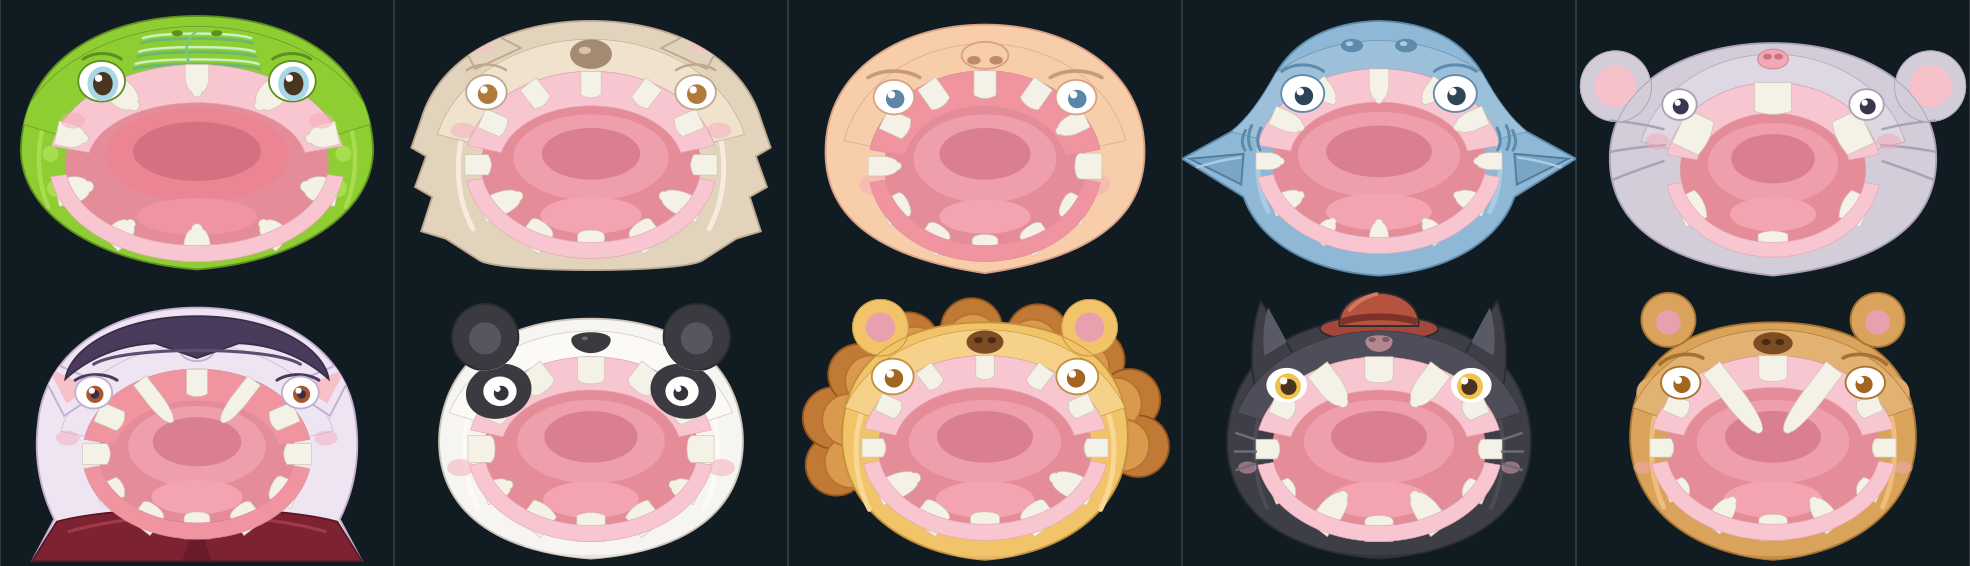
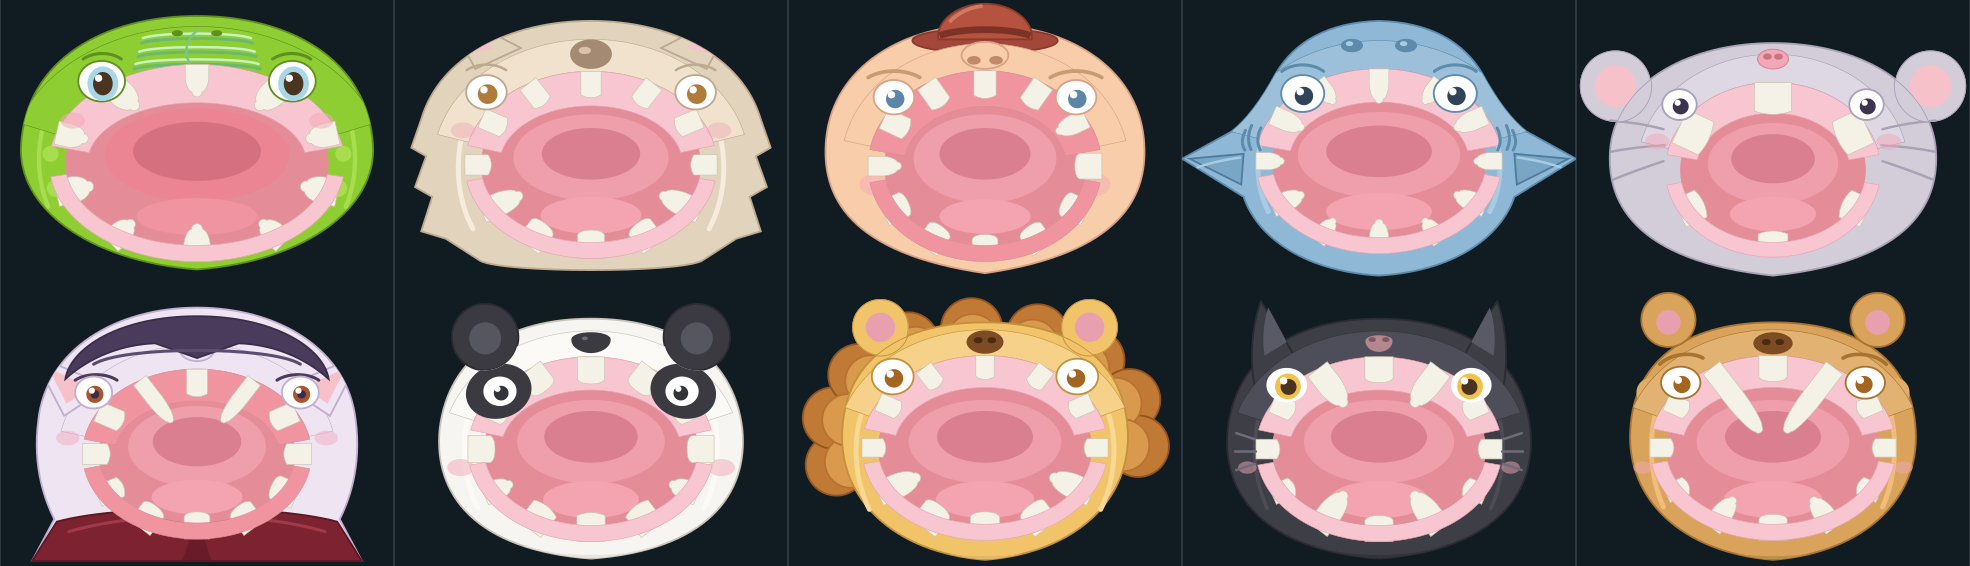
Korrektur: der Hut gehoert dem Menschen, nicht dem Panther
- Der Nutzer stellte klar: 'Der Hut sollte fuer den Menschen sein und nicht fuer den
  Panther.' Meine Deutung von 'Genau wie der Mensch ... koennte man dem einen Hut
  anziehen' war falsch -- gemeint war der Mensch.
- Panther: Hut restlos entfernt, im gerasterten PNG nachgemessen (an den Hutstellen
  wieder Hintergrund (16,28,34)), Ohren, Augen und Schnurrhaare unveraendert.
- Mensch: rostroter Filzhut mit Krempe, Krone, Band und Glanzkante oberhalb der
  Brauen (Krempe x 202..438, Krone bis y 6); weicher Umriss #8a3a2c statt #2b2b33,
  weil der Mensch die weichste Zeichnung im Katalog ist. In der Koerperebene -- der
  Gesichtsbereich ist auf die Silhouette beschnitten, die Krone waere dort abgeschnitten.
- Messungen im PNG: Krone (320,20)=(181,83,63), Band (320,52)=(124,50,39), Krempe
  beidseitig (162,71,58), daneben Hautton (247,205,170); Krempenbreite 238 px im Bild
  gegen 236 SVG-Einheiten im Pfad.
- Beide Zustaende beider Zeichnungen gerastert und angesehen, Galerie neu, Gate 234/19.
- AGENTS.md: neue Regel 'Wer ist gemeint?' -- bei 'dem einen' mit zwei genannten
  Wesen nachfragen statt raten.

Changed region(s): [[0.4645, 0.0, 0.5574, 0.0901], [0.6503, 0.5106, 0.7431, 0.6007]]

diff --git a/src/presentation/game/creatures/panther.ts b/src/presentation/game/creatures/panther.ts
@@ -12,8 +12,9 @@ import type { CreatureArtwork } from './types';
  * fuer 12 Zaehne sind das die Paare (1, 11) und (5, 7).
  *
  * Die **spitzen** Ohren sind Teil des Umrisses (wie die runden Ohren von Maus, Panda und Loewe):
- * alles ausserhalb des Kopfumrisses wird weggeschnitten. Der Hut liegt dagegen in der
- * Koerperebene, weil seine Krone ueber den Umriss hinausragt.
+ * alles ausserhalb des Kopfumrisses wird weggeschnitten. **Der Hut sitzt am Menschen**, nicht hier:
+ * „Genau wie der Mensch vielleicht koennte man dem einen Hut anziehen" war auf den Menschen gemuenzt
+ * (11.10.2026); der Hut lag zuerst faelschlich hier und wurde umgesetzt.
  *
  * Die Augen tragen einen **gelben** Irisring statt des hellblauen des Spielzeugs -- Kulleraugen
  * bleiben es, aber ein schwarzer Panther mit blauen Augen waere ein anderer Kopf. Die Pupille
@@ -43,26 +44,6 @@ const OHR_RECHTS = 'M 444 150 C 456 116 486 70 512 30 C 524 60 532 120 522 168 Z
 const OHR_LINKS_INNEN = 'M 134 118 C 130 96 132 62 140 40 C 152 62 164 84 170 96 Z';
 const OHR_RECHTS_INNEN = 'M 470 96 C 476 84 488 62 500 40 C 508 62 510 96 506 118 Z';
 
-/**
- * **Der Hut** (Wahl des Auftraggebers, 11.10.2026, auf die Frage nach einem Hut oder einer
- * Brille: "Hut"). Ein weicher Filzhut zwischen den Ohren: die Krempe folgt der Kopfwoelbung
- * (Kopfmitte y 58), die Krone steht darueber frei.
- *
- * Er liegt in der **Koerperebene** (`body`) und **nicht** im Gesichtsbereich. Der Gesichtsbereich
- * wird auf die Silhouette beschnitten (Kopf + Ohren, siehe `factory.ts`, `mouthLayers`), und weil
- * die Krone ueber den Kopfumriss hinausragt, waere sie dort abgeschnitten. In die Silhouette
- * gehoert er auch nicht: kein Maulteil reicht bis zur Krone (das Maul beginnt bei y 120, der Hut
- * endet bei y 94), und jeder weitere Teilpfad im Beschnitt traegt die Gefahr der Gegenlaeufigkeit.
- *
- * Die Farbe ist bewusst **Rostrot**: Gold traegt die Maehne des Loewen, Blau der Hai, Violett der
- * Vampir, Braun und Hauttöne der Mensch -- ein weiterer Braunton haette auf dem schwarzen Fell wie
- * Fell gewirkt.
- */
-const HUT_KREMPE =
-  'M 224 74 C 224 61 268 54 320 54 C 372 54 416 61 416 74 C 416 87 372 94 320 94 C 268 94 224 87 224 74 Z';
-const HUT_KRONE = 'M 256 70 C 252 40 282 16 320 16 C 358 16 388 40 384 70 Z';
-const HUT_BAND = 'M 258 64 C 284 52 356 52 382 64';
-
 export const pantherArtwork: CreatureArtwork = {
   silhouette: `${KOPF} ${OHR_LINKS} ${OHR_RECHTS}`,
   body:
@@ -82,12 +63,7 @@ export const pantherArtwork: CreatureArtwork = {
     // Wangen im Fellstreifen zwischen Maul und Kopfrand; bei y 300 ist er breit genug
     // (gemessen: der Maulrand liegt dort bei x 124, der Kopfrand bei x 92).
     '<ellipse cx="106" cy="300" rx="15" ry="10" fill="#f2a8b6" opacity="0.5"/>' +
-    '<ellipse cx="534" cy="300" rx="15" ry="10" fill="#f2a8b6" opacity="0.5"/>' +
-    // Der Hut zuletzt: er liegt ueber Kopf und Ohren (Begruendung oben bei HUT_KREMPE).
-    `<path d="${HUT_KREMPE}" fill="#a2473a" stroke="#2b2b33" stroke-width="3"/>` +
-    `<path d="${HUT_KRONE}" fill="#b5533f" stroke="#2b2b33" stroke-width="3"/>` +
-    `<path d="${HUT_BAND}" fill="none" stroke="#7c3227" stroke-width="11"/>` +
-    '<path d="M 272 44 C 284 30 300 22 316 18" fill="none" stroke="#cf7a63" stroke-width="6" stroke-linecap="round"/>',
+    '<ellipse cx="534" cy="300" rx="15" ry="10" fill="#f2a8b6" opacity="0.5"/>',
   holeFill: '#e58c99',
   inner:
     '<ellipse cx="320" cy="258" rx="122" ry="68" fill="#ef9fab"/>' +

diff --git a/src/presentation/game/creatures/human.ts b/src/presentation/game/creatures/human.ts
@@ -7,6 +7,28 @@ import type { CreatureArtwork } from './types';
 const SILHOUETTE =
   'M 320 40 C 452 40 566 108 578 224 C 588 320 540 412 320 444 C 100 412 52 320 62 224 C 74 108 188 40 320 40 Z';
 
+/**
+ * **Der Hut.** Der Auftraggeber waehlte ihn am 11.10.2026 auf die Frage „Hut oder Brille?" mit
+ * "Hut" -- gemeint war der **Mensch**, nicht der Panther (die Nachricht nannte beide; der Hut lag
+ * zuerst falsch und wurde hierher umgesetzt). Ein weicher Filzhut: die Krempe folgt der
+ * Kopfwoelbung (Kopfmitte y 40), die Krone steht darueber frei.
+ *
+ * Er liegt in der **Koerperebene** (`body`) und **nicht** im Gesichtsbereich: der wird auf die
+ * Silhouette beschnitten (siehe `factory.ts`, `mouthLayers`), und die Krone ragt ueber den
+ * Kopfumriss hinaus -- dort waere sie abgeschnitten. In die Silhouette gehoert er auch nicht: kein
+ * Maulteil reicht bis zur Krempe (das Maul beginnt bei y 112, die Brauen liegen bei y 112, der Hut
+ * endet bei y 80).
+ *
+ * **Rostrot** -- Gold traegt die Maehne des Loewen, Blau der Hai, Violett der Vampir, Gruen das
+ * Krokodil. Braun waere am Menschen nicht zu unterscheiden: er hat keine gezeichneten Haare, nur
+ * Brauen in `#c79b73`. Der Umriss ist `#8a3a2c` statt des harten `#2b2b33` -- der Mensch ist die
+ * weichste Zeichnung im Katalog.
+ */
+const HUT_KREMPE =
+  'M 202 66 C 202 54 256 46 320 46 C 384 46 438 54 438 66 C 438 78 384 86 320 86 C 256 86 202 78 202 66 Z';
+const HUT_KRONE = 'M 244 64 C 240 34 276 6 320 6 C 364 6 400 34 396 64 Z';
+const HUT_BAND = 'M 246 58 C 278 45 362 45 394 58';
+
 export const humanArtwork: CreatureArtwork = {
   silhouette: SILHOUETTE,
   body:
@@ -14,7 +36,12 @@ export const humanArtwork: CreatureArtwork = {
     'C 100 412 52 320 62 224 C 74 108 188 40 320 40 Z" fill="#f7cdaa" stroke="#d9a186" stroke-width="3"/>' +
     '<path d="M 150 306 C 190 352 450 352 490 306" fill="none" stroke="#edc6a4" stroke-width="5" stroke-linecap="round"/>' +
     '<ellipse cx="150" cy="300" rx="34" ry="20" fill="#f2a8b6" opacity="0.45"/>' +
-    '<ellipse cx="490" cy="300" rx="34" ry="20" fill="#f2a8b6" opacity="0.45"/>',
+    '<ellipse cx="490" cy="300" rx="34" ry="20" fill="#f2a8b6" opacity="0.45"/>' +
+    // Der Hut zuletzt: er liegt ueber dem Kopf (Begruendung oben bei HUT_KREMPE).
+    `<path d="${HUT_KREMPE}" fill="#a2473a" stroke="#8a3a2c" stroke-width="3"/>` +
+    `<path d="${HUT_KRONE}" fill="#b5533f" stroke="#8a3a2c" stroke-width="3"/>` +
+    `<path d="${HUT_BAND}" fill="none" stroke="#7c3227" stroke-width="11"/>` +
+    '<path d="M 264 34 C 278 20 296 12 314 10" fill="none" stroke="#cf7a63" stroke-width="6" stroke-linecap="round"/>',
   holeFill: '#e58c99',
   inner:
     '<ellipse cx="320" cy="258" rx="116" ry="72" fill="#ef9fab"/>' +

diff --git a/docs/e2e-nachweise.md b/docs/e2e-nachweise.md
@@ -767,17 +767,19 @@ sie meldete `FEHLER`, obwohl die Seite vollständig war. Der Vergleich läuft je
 Groß-/Kleinschreibung, die Liste folgt dem Katalog, und die Sonde liest zusätzlich die Notiz des
 Panthers.
 
-**Der Hut** (Antwort des Nutzers auf die Frage „Hut oder Brille?", 11.10.2026): ein rostroter Filzhut
-mit Krempe, Krone, Band und Glanzkante, zwischen den Ohren. Er liegt in der **Körperebene**
-(`body`), denn der Gesichtsbereich ist auf die Silhouette beschnitten (Kopf + Ohren) und die Krone
-ragt darüber hinaus — sie wäre dort abgeschnitten. Der Hut reicht bis y 94, das Maul beginnt bei
-y 120; er muss deshalb nicht in die Silhouette aufgenommen werden. Farbwahl gegen die anderen
-Lebewesen geprüft: Gold trägt die Löwenmähne, Blau der Hai, Violett der Vampir, Braun und Hauttöne
-der Mensch. Gemessen im gerasterten PNG: Krone `(320,30)` = `(181,83,63)`, Hutband `(320,58)` =
-`(124,50,39)`, Krempe beidseitig `(240,74)` / `(400,74)` = `(162,71,58)`; Ohren `(140,90)` /
-`(500,90)` = `(90,90,102)` und Augen `(170,166)` / `(470,166)` = `(74,51,32)` unverändert
-symmetrisch. Beide Zustände gerastert und angesehen (Krone vollständig, im Zuschnappen sitzt der Hut
-ruhig), Galerie neu gebaut (1970 × 566, zehn Kacheln), Gate 234 Tests in 19 Dateien grün.
+**Der Hut — und eine falsch verortete Anweisung** (11.10.2026). Meine Frage „Hut oder Brille?" hatte
+der Nutzer mit „Hut" beantwortet; ich setzte ihn dem **Panther** auf. Der Nutzer stellte klar: „Der
+Hut sollte für den Menschen sein und nicht für den Panther." Umgesetzt: ein **rostroter** Filzhut mit
+Krempe, Krone, Band und Glanzkante sitzt jetzt auf dem **Menschen**, oberhalb der Brauen; der Panther
+ist wieder schmucklos. Er liegt in der **Körperebene** (`body`), denn der Gesichtsbereich ist auf die
+Silhouette beschnitten und die Krone ragt darüber hinaus. Gemessen im gerasterten PNG — Mensch:
+Krone `(320,20)` = `(181,83,63)`, Band `(320,52)` = `(124,50,39)`, Krempe `(210,66)` / `(430,66)` =
+`(162,71,58)`, daneben `(198,66)` = Hautton `(247,205,170)`; Krempenbreite im Bild gemessen
+(Bildzeile y 66 von x 401 bis 878, Maßstab 2 → 238 px) gegen 236 SVG-Einheiten im Pfad (x 202…438).
+Panther: an denselben Stellen `(16,28,34)` = Hintergrund (kein Rest), Nase `(320,100)` =
+`(180,135,143)` unverändert. Beide Zustände beider Zeichnungen angesehen — Pantherhut restlos
+entfernt, Menschenkrone vollständig, im Zuschnappen unverändert —, Galerie neu gebaut, Gate 234 Tests
+in 19 Dateien grün.
 
 ## 6. Von Prüfern gefundene Umgebungsfallen (nachgeprüft)
 

diff --git a/docs/plan.md b/docs/plan.md
@@ -416,10 +416,15 @@ wollen. Hast du noch andere coole Ideen?"
   Jetzt laufen beide Ohren gleichsinnig (das rechte rückwärts notiert), die Ohren sind kleiner, und
   dazu kamen Schnurrhaare im Fellstreifen neben dem Maul. Beide Fassungen gerastert und angesehen,
   die Falle steht in `AGENTS.md`.
-- **Der Hut (Wahl des Nutzers, 11.10.2026).** Auf die Frage „Hut oder Brille?" antwortete der Nutzer
-  mit „Hut": ein weicher, **rostroter** Filzhut mit Krempe, Krone, Band und Glanzkante, zwischen den
-  Ohren auf der Kopfwölbung. Rostrot, weil Gold die Mähne des Löwen trägt, Blau der Hai, Violett der
-  Vampir, Braun und Hauttöne der Mensch. Er liegt in der **Körperebene** (`body`) und nicht im
-  Gesichtsbereich: der wird auf die Silhouette beschnitten (Kopf + Ohren), und die Krone ragt darüber
-  hinaus — dort wäre sie abgeschnitten. Beide Zustände gerastert und angesehen: die Krone ist
-  vollständig, im Zuschnappen sitzt der Hut unverändert.
+- **Der Hut — zuerst falsch verortet (Korrektur des Nutzers, 11.10.2026).** Ich hatte „Genau wie der
+  Mensch … könnte man dem einen Hut anziehen" auf den **Panther** bezogen und ihm einen Filzhut
+  aufgesetzt. Der Nutzer stellte klar: **„Der Hut sollte für den Menschen sein und nicht für den
+  Panther."** Umgesetzt: der Hut sitzt jetzt auf dem **Menschen** (weicher, **rostroter** Filzhut mit
+  Krempe, Krone, Band und Glanzkante, oberhalb der Brauen), der Panther ist wieder schmucklos —
+  im gerasterten Bild nachgemessen, nicht behauptet. Rostrot, weil Gold die Mähne des Löwen trägt,
+  Blau der Hai, Violett der Vampir, Grün das Krokodil; Braun wäre am Menschen nicht von seinen
+  Brauen (`#c79b73`) zu unterscheiden. Er liegt in der **Körperebene** (`body`) und nicht im
+  Gesichtsbereich: der wird auf die Silhouette beschnitten, und die Krone ragt darüber hinaus — dort
+  wäre sie abgeschnitten. Beide Zustände beider Zeichnungen gerastert und angesehen (Pantherhut
+  restlos entfernt, Menschenkrone vollständig), Galerie neu gebaut, Gate grün. **Lehre:** bei „dem
+  einen" in einer Nachricht mit zwei genannten Wesen nachfragen, statt zu raten.

diff --git a/README.md b/README.md
@@ -121,13 +121,12 @@ Ports: Entwicklungs- und Vorschauserver benutzen **4321**. Belegt? `pnpm dev --p
   Anzeigen sprechen in Worten („10 Zähne übrig", „Bissgefahr 20 %"). Die Technik-Erklärung
   (Bumerang, Rechenwerte) steht eingeklappt unter „Für Große".
 - **Zehn Gebisse:** Krokodil (10 Zähne, 1–3 gleichzeitig scharf), Wolf (12, 1–2 — zwei lange
-  Fangzähne, drei breite Schneidezähne), Mensch (12, 1–3), Hai (12, 1–2 — runde Raubtierzähne, Kiemenschlitze am Kopf),
+  Fangzähne, drei breite Schneidezähne), Mensch (12, 1–3 — mit rostrotem Filzhut), Hai (12, 1–2 — runde Raubtierzähne, Kiemenschlitze am Kopf),
   Maus (nur 6 Nagezähne — die kürzeste Runde), Vampir (12, 1–2 — zwei lange Eckzähne),
   Panda (12, 1–2 — breite Mahlzähne statt Reißzähne, schwarze Ohren und Augenflecken), Löwe
   (12, 1–2 — Mähne aus Fellbüscheln, zwei lange Fangzähne und drei breite Schneidezähne),
   Panther (12, 1–2 — der melanistische Leopard: schwarzes Fell, gelbe Augen, **vier** Fangzähne,
-  je einer oben und unten links und rechts, dazu ein rostroter Filzhut zwischen den Ohren),
-  Säbelzahntiger (12, 1–2 — Smilodon mit zwei Säbeln
+  je einer oben und unten links und rechts), Säbelzahntiger (12, 1–2 — Smilodon mit zwei Säbeln
   oben, beim echten Tier bis 20 cm lang). Jedes
   Gebiss zeichnet sich selbst: Blick von vorne oben in den Rachen, eigenes Zahnprofil, eigene
   Kopfform, eigenes Zahnfleisch.

diff --git a/AGENTS.md b/AGENTS.md
@@ -266,8 +266,13 @@ riesigen Fangzähne. Regeln für neue Kunstwerke:
   Wer ein neues Tier zeichnet: erst die **Silhouette** unverwechselbar machen, dann das Fell.
 - **Zubehör gehört in die Körperebene.** Ein Hut (oder eine Brille) ragt über den Kopfumriss hinaus —
   der Gesichtsbereich wird aber auf die Silhouette beschnitten (`factory.ts`, `mouthLayers`), dort
-  wäre die Krone abgeschnitten. Der Panther trägt seinen Filzhut deshalb in `body`. In die Silhouette
-  gehört er nur, wenn ein Maulteil ihn erreicht; dann gilt die Gleichsinnigkeit (Falle oben).
+  wäre die Krone abgeschnitten. Der **Mensch** trägt seinen rostroten Filzhut deshalb in `body`. In
+  die Silhouette gehört er nur, wenn ein Maulteil ihn erreicht; dann gilt die Gleichsinnigkeit
+  (Falle oben).
+- **Wer ist gemeint?** „Genau wie der Mensch … könnte man dem einen Hut anziehen" heißt *der Mensch*.
+  Ich hatte den Hut auf den Panther gesetzt (der Satz nannte beide), und der Nutzer musste
+  widersprechen. Bei „dem einen"/„dem anderen" in einer Nachricht mit **zwei** genannten Wesen:
+  nachfragen, statt zu raten.
 - Augen: weiße Linsen mit Glanzpunkt und rosa Wangen. Der Augapfel darf einen **hellblauen
   Irisring** um die Pupille tragen (so sieht das Original-Spielzeug aus); die Pupille bleibt
   dunkelbraun als Oval — kontrastarm, nie schwarz.
